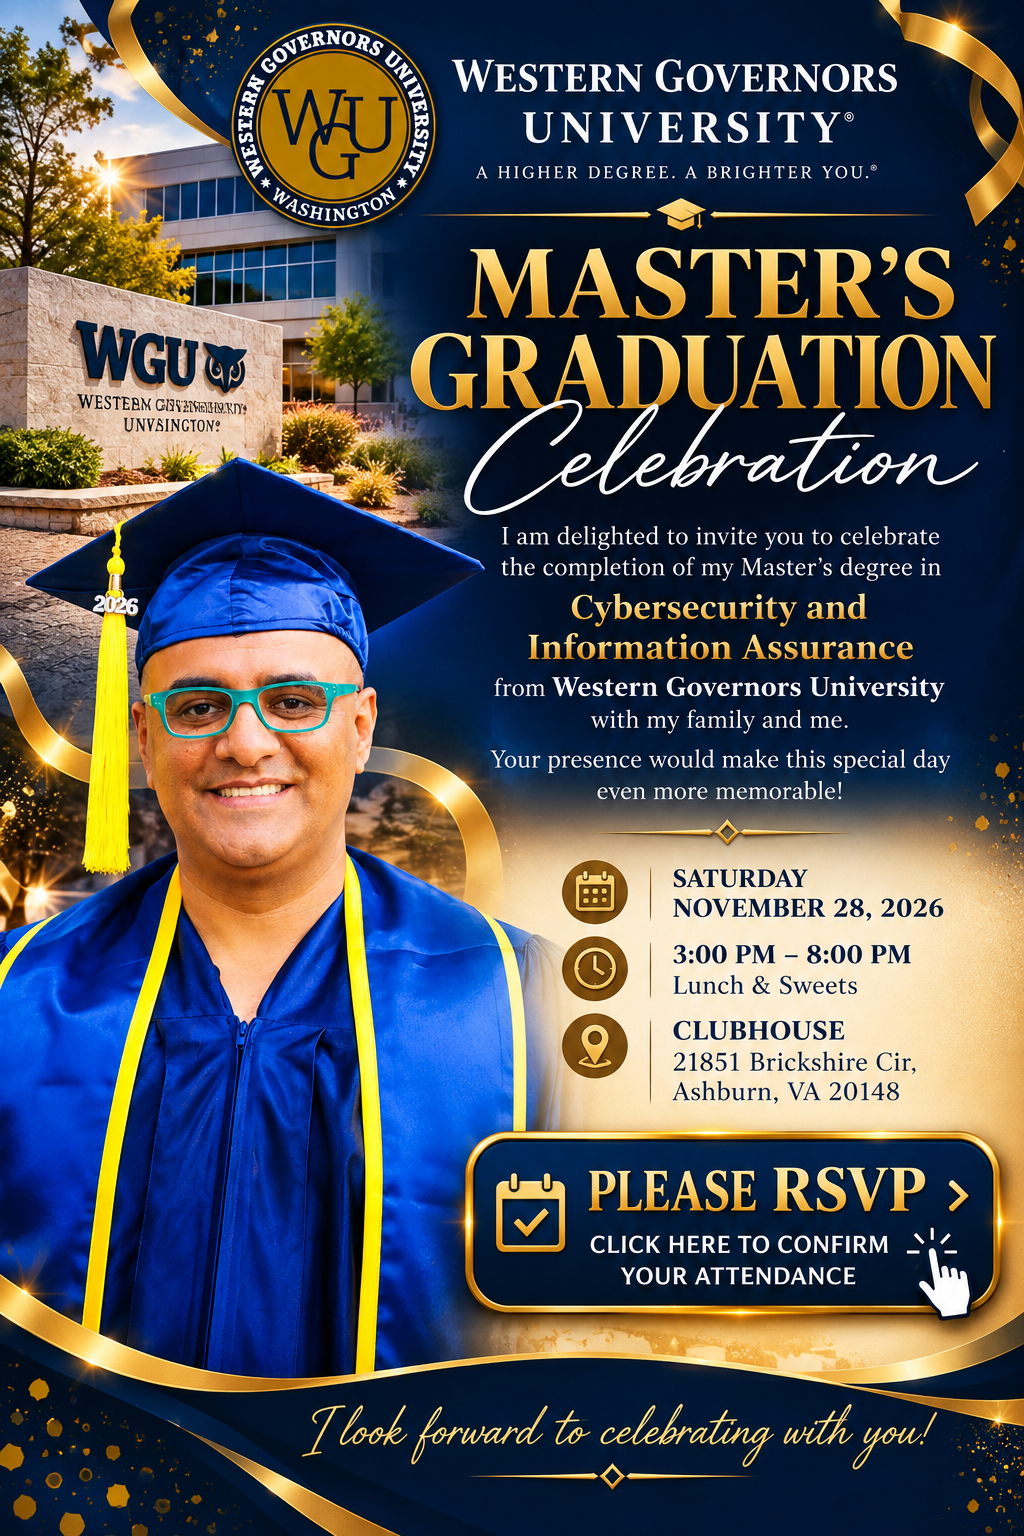
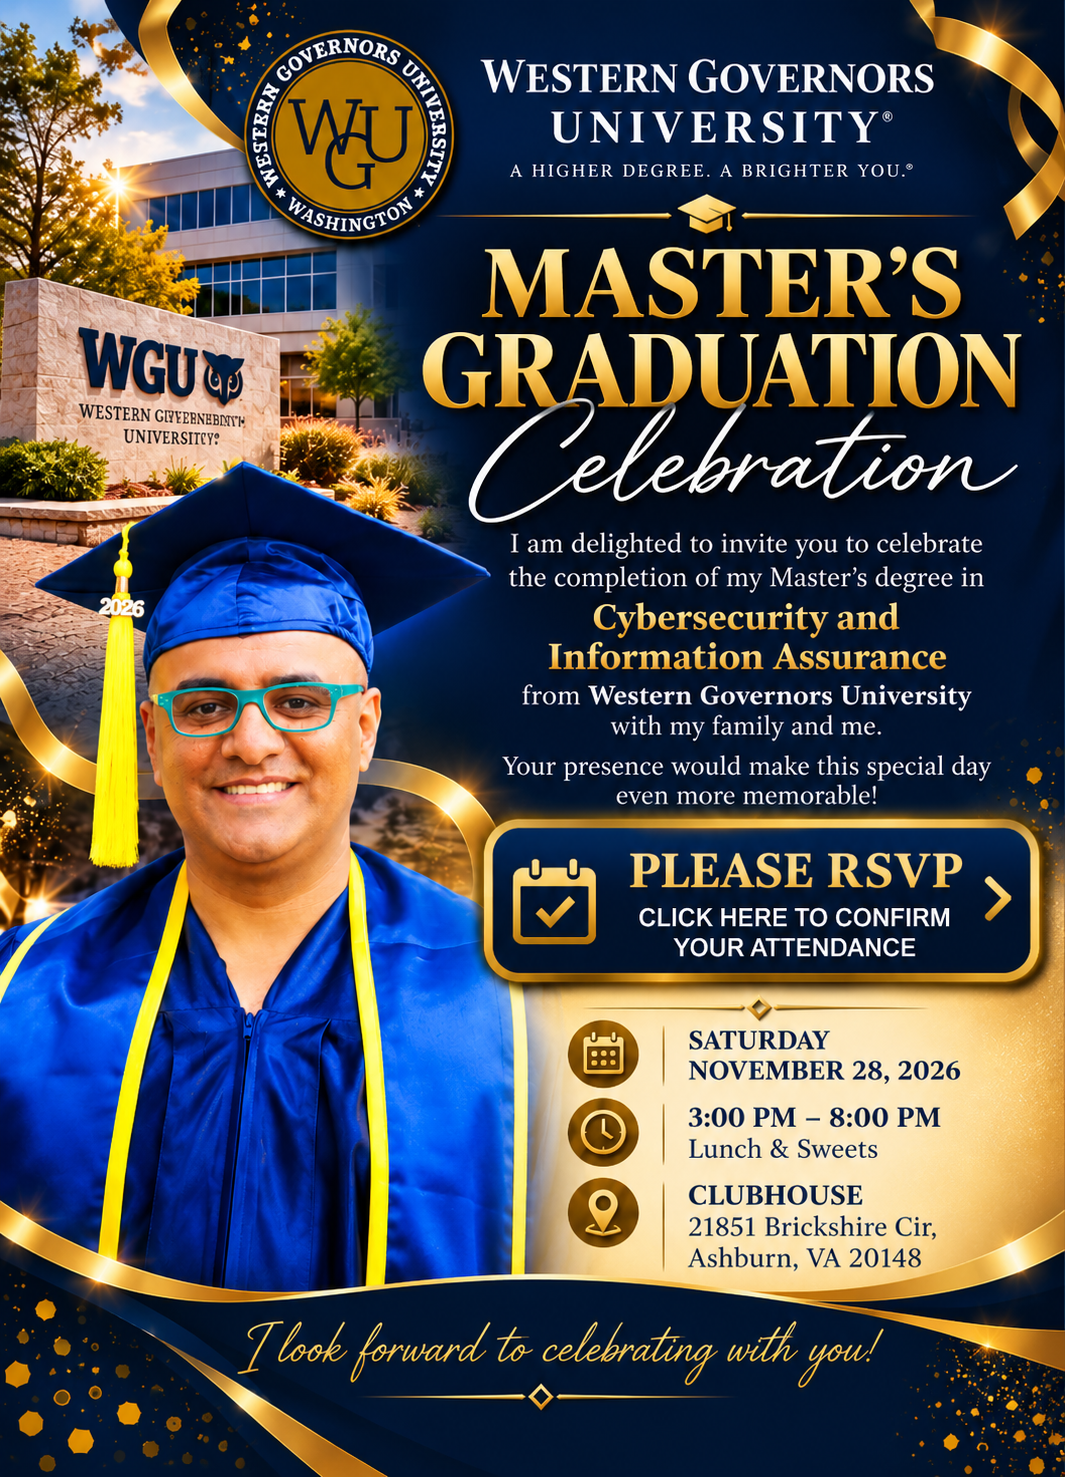
Add files via upload

diff --git a/index.html b/index.html
@@ -7,70 +7,32 @@
 <style>
 *{box-sizing:border-box}
 html,body{margin:0;min-height:100%;background:#292929}
-body{display:flex;justify-content:center;padding:24px 8px}
-.invite{position:relative;width:min(100%,760px);line-height:0}
-.invite img{display:block;width:100%;height:auto}
-
-/* Cover the original lower RSVP artwork with the surrounding gold area */
-.cover{
- position:absolute;left:44%;top:73.3%;width:54%;height:12%;
- background:linear-gradient(135deg,#f4d38c 0%,#f8e0aa 48%,#e8bc62 100%);
- border-radius:8px;
-}
-
-/* The ONLY clickable RSVP button — placed in the blank area above event details */
-.rsvp{
+body{display:flex;justify-content:center;padding:22px 8px}
+.invitation{position:relative;width:min(100%,760px);line-height:0}
+.invitation img{display:block;width:100%;height:auto}
+.rsvp-link{
  position:absolute;
- left:51.2%;
- top:41.2%;
- width:43.8%;
- height:9.2%;
- display:flex;
- align-items:center;
- gap:9px;
- padding:8px 12px;
- border:3px solid #e5b83e;
- border-radius:18px;
- background:linear-gradient(180deg,#0a315f,#031d43 62%,#00162f);
- box-shadow:inset 0 0 0 2px #f6d16a44,0 0 12px #e4b53899,0 6px 12px #0007;
- text-decoration:none;
- z-index:3;
- line-height:1;
- transition:.18s ease;
+ left:45.2%;
+ top:55.5%;
+ width:52.7%;
+ height:11.7%;
+ border-radius:20px;
+ z-index:5;
+ cursor:pointer;
+ text-indent:-9999px;
+ overflow:hidden;
 }
-.rsvp:hover{transform:scale(1.025);filter:brightness(1.08)}
-.cal{flex:0 0 42px;width:42px;height:42px;border:3px solid #efbd3a;border-radius:7px;position:relative}
-.cal:before,.cal:after{content:"";position:absolute;top:-8px;width:7px;height:13px;border-radius:4px;background:#efbd3a}
-.cal:before{left:6px}.cal:after{right:6px}
-.tick{position:absolute;left:10px;top:13px;width:19px;height:10px;border-left:5px solid #efbd3a;border-bottom:5px solid #efbd3a;transform:rotate(-45deg)}
-.txt{flex:1;text-align:center;min-width:0}
-.big{display:block;color:#f4c75a;font-family:Georgia,'Times New Roman',serif;font-size:clamp(14px,2.65vw,27px);font-weight:700;white-space:nowrap}
-.small{display:block;color:#fff;font:700 clamp(7px,1.35vw,14px)/1.1 Arial,sans-serif;margin-top:5px}
-.arrow{color:#f4c75a;font:700 clamp(22px,3.5vw,38px)/1 Georgia,serif}
-
-@media(max-width:520px){
- body{padding:0}
- .rsvp{left:50.5%;top:41.1%;width:45%;height:9.4%;padding:5px 7px;gap:5px;border-width:2px;border-radius:11px}
- .cal{flex-basis:27px;width:27px;height:27px;border-width:2px;border-radius:4px}
- .cal:before,.cal:after{top:-5px;width:4px;height:9px}
- .cal:before{left:4px}.cal:after{right:4px}
- .tick{left:6px;top:8px;width:12px;height:7px;border-left-width:3px;border-bottom-width:3px}
- .small{margin-top:2px}
-}
+.rsvp-link:focus{outline:3px solid #fff;outline-offset:3px}
+@media(max-width:520px){body{padding:0}.rsvp-link{border-radius:12px}}
 </style>
 </head>
 <body>
-<div class="invite">
+<div class="invitation">
  <img src="invitation.png" alt="Master's Graduation Celebration invitation">
- <div class="cover" aria-hidden="true"></div>
- <a class="rsvp" href="https://form.jotform.com/262794520723056" target="_blank" rel="noopener">
-   <span class="cal"><span class="tick"></span></span>
-   <span class="txt">
-     <span class="big">PLEASE RSVP</span>
-     <span class="small">CLICK HERE TO CONFIRM<br>YOUR ATTENDANCE</span>
-   </span>
-   <span class="arrow">›</span>
- </a>
+ <a class="rsvp-link"
+    href="https://form.jotform.com/262794520723056"
+    target="_blank" rel="noopener"
+    aria-label="Please RSVP — click here to confirm your attendance">RSVP</a>
 </div>
 </body>
 </html>
